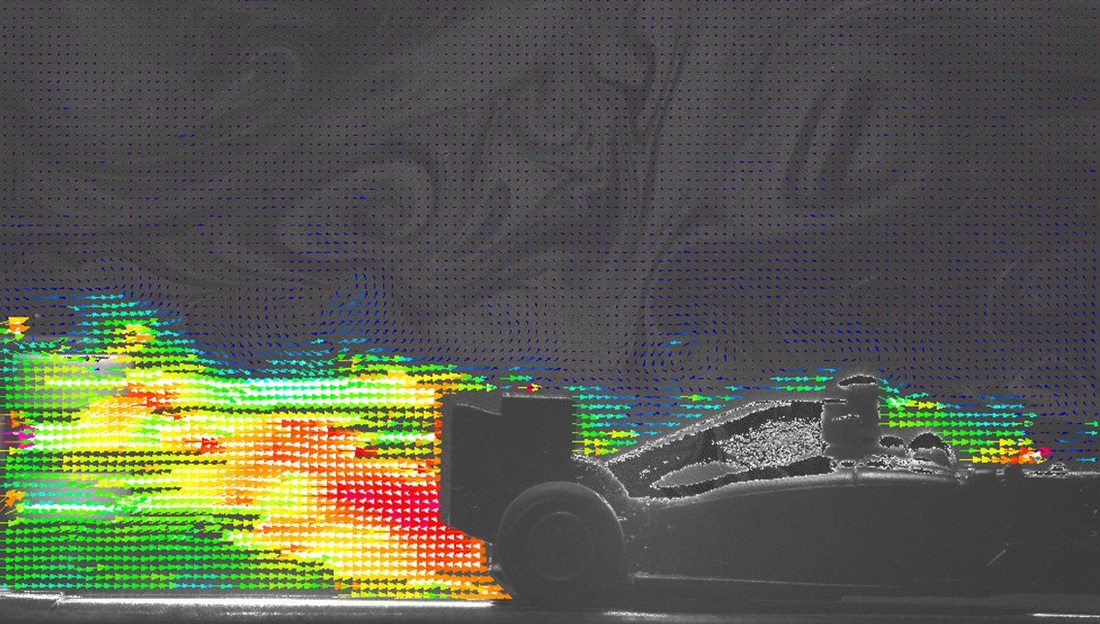
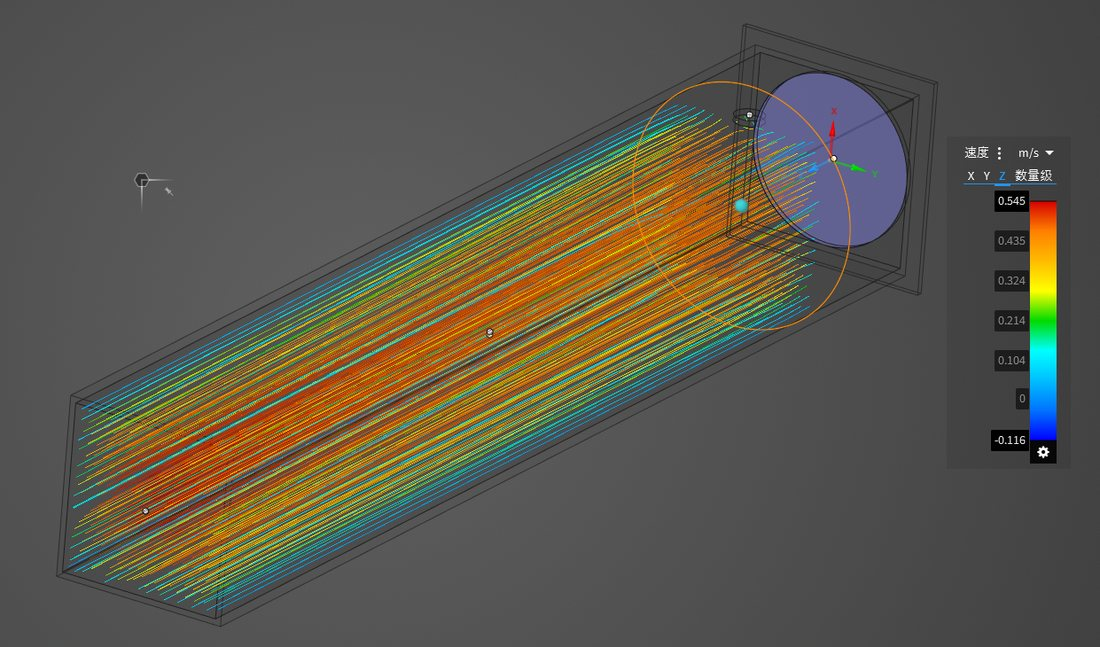
Add files via upload

diff --git a/projects/a03-waste-sorting.html b/projects/a03-waste-sorting.html
@@ -61,17 +61,6 @@
   <section class="dsec">
     <h2><span data-zh>项目图片</span><span data-en>Gallery</span></h2>
     <div class="gallery">
+      <figure><a href="img/a03-concept.jpg" target="_blank"><img src="img/a03-concept.jpg" alt="concept render"></a><figcaption><span data-zh>系统整体理想效果示意图（电磁阀喷气分拣全流程）</span><span data-en>Ideal full-system concept render (end-to-end air-jet sorting)</span></figcaption></figure>
       <figure><a href="img/a03-conveyor.jpg" target="_blank"><img src="img/a03-conveyor.jpg" alt="conveyor"></a><figcaption><span data-zh>气压式穿孔传送带 + 相机采集（初步实物装置）</span><span data-en>Perforated pneumatic conveyor + camera capture (early prototype)</span></figcaption></figure>
-      <figure><a href="img/a03-render.jpg" target="_blank"><img src="img/a03-render.jpg" alt="render"></a><figcaption><span data-zh>电磁阀喷气分拣系统 3D 渲染图</span><span data-en>3D render of the air-jet sorting system</span></figcaption></figure>
-    </div>
-    <p class="note" style="margin-top:12px"><span data-zh>点击图片可查看大图。</span><span data-en>Click an image to view full size.</span></p>
-  </section>
-
-  <div class="dfoot"><span data-zh>姚涵非 · </span><span data-en>Hanfei Yao · </span><a href="../index.html"><span data-zh>返回主页</span><span data-en>Back to home</span></a></div>
-</main>
-<script>
-const b=document.getElementById('dlangToggle'),h=document.documentElement;
-b.addEventListener('click',()=>{const en=h.getAttribute('lang')==='en';h.setAttribute('lang',en?'zh':'en');b.textContent=en?'EN':'中';});
-</script>
-</body>
-</html>
+      <figure><a href="img/a03-render.jpg" target="_blank"><img src="img/a03-render.jpg" alt="render"></a><figcaption><span data-zh>电磁阀喷气分拣系统 3D 渲染图</span><span data-en>3D 

diff --git a/projects/a05-nut-insertion.html b/projects/a05-nut-insertion.html
@@ -62,17 +62,4 @@
     <div class="gallery">
       <figure><a href="img/a05-real.jpg" target="_blank"><img src="img/a05-real.jpg" alt="prototype"></a><figcaption><span data-zh>热压螺母植入机实物样机</span><span data-en>Physical prototype of the inserter</span></figcaption></figure>
       <figure><a href="img/a05-part.jpg" target="_blank"><img src="img/a05-part.jpg" alt="3D-printed parts"></a><figcaption><span data-zh>3D 打印的红色结构零件</span><span data-en>3D-printed red structural parts</span></figcaption></figure>
-      <figure><a href="img/a05-cad.jpg" target="_blank"><img src="img/a05-cad.jpg" alt="CAD"></a><figcaption><span data-zh>整机 3D CAD（全齿条 + 锁紧 + 高度控制）</span><span data-en>Full 3D CAD (rack-and-pinion + locking + height control)</span></figcaption></figure>
-      <figure><a href="img/a05-drawing.jpg" target="_blank"><img src="img/a05-drawing.jpg" alt="drawing"></a><figcaption><span data-zh>传动与锁紧机构工程图</span><span data-en>Engineering drawing of transmission & locking</span></figcaption></figure>
-    </div>
-    <p class="note" style="margin-top:12px"><span data-zh>点击图片可查看大图。</span><span data-en>Click an image to view full size.</span></p>
-  </section>
-
-  <div class="dfoot"><span data-zh>姚涵非 · </span><span data-en>Hanfei Yao · </span><a href="../index.html"><span data-zh>返回主页</span><span data-en>Back to home</span></a></div>
-</main>
-<script>
-const b=document.getElementById('dlangToggle'),h=document.documentElement;
-b.addEventListener('click',()=>{const en=h.getAttribute('lang')==='en';h.setAttribute('lang',en?'zh':'en');b.textContent=en?'EN':'中';});
-</script>
-</body>
-</html>
+      <figure><a href="img/a05-cad.jpg" target="_blank"><img src="img/a05-cad.jpg" alt="CAD"></a><figcaption><span data-zh>整机 3D CAD（全齿条 + 锁紧 + 高度控制）</span><span data-en>Full 3D

diff --git a/projects/a04-piv.html b/projects/a04-piv.html
@@ -59,14 +59,25 @@
   </section>
 
   <section class="dsec">
+    <h2><span data-zh>实物演示视频</span><span data-en>Demo Video</span></h2>
+    <video class="pvideo" controls preload="metadata" poster="img/a04-demo-poster.jpg">
+      <source src="a04-demo.mp4" type="video/mp4">
+      <span data-zh>你的浏览器不支持视频播放，可<a href="a04-demo.mp4">点此下载查看</a>。</span><span data-en>Your browser cannot play the video; <a href="a04-demo.mp4">download it here</a>.</span>
+    </video>
+    <p class="note" style="margin-top:10px"><span data-zh>毕业设计 PIV 装置的实物演示（团队答辩录像节选，含透明亚克力流道装置）。</span><span data-en>Real-device demo of the PIV setup (excerpt from the team defense video, showing the transparent acrylic channel device).</span></p>
+  </section>
+
+  <section class="dsec">
     <h2><span data-zh>原理、装置与实拍</span><span data-en>Principle, Device & Photos</span></h2>
     <div class="gallery">
       <figure><a href="img/a04-overview.jpg" target="_blank"><img src="img/a04-overview.jpg" alt="overview"></a><figcaption><span data-zh>整机设计总览（激光 / 相机 / 流道 / 树莓派 / 触摸屏）</span><span data-en>Overall design (laser / camera / channel / Raspberry Pi / touchscreen)</span></figcaption></figure>
       <figure><a href="img/a04-principle.jpg" target="_blank"><img src="img/a04-principle.jpg" alt="principle"></a><figcaption><span data-zh>PIV 测速原理示意（片光 + 双曝光 + 互相关）</span><span data-en>PIV principle (light-sheet + double exposure + cross-correlation)</span></figcaption></figure>
+      <figure><a href="img/a04-device.jpg" target="_blank"><img src="img/a04-device.jpg" alt="real device"></a><figcaption><span data-zh>透明亚克力流道装置实物（毕设答辩）</span><span data-en>Transparent acrylic channel device (defense)</span></figcaption></figure>
+      <figure><a href="img/a04-mech.jpg" target="_blank"><img src="img/a04-mech.jpg" alt="mechanical design"></a><figcaption><span data-zh>机械系统设计：相机/激光支架 CAD 与 FEA 强度分析（本人负责）</span><span data-en>Mechanical design: camera/laser bracket CAD & FEA (my work)</span></figcaption></figure>
       <figure><a href="img/a04-laser.jpg" target="_blank"><img src="img/a04-laser.jpg" alt="laser"></a><figcaption><span data-zh>激光片光照亮流场（实拍）</span><span data-en>Laser light-sheet illuminating the flow (photo)</span></figcaption></figure>
       <figure><a href="img/a04-frame.jpg" target="_blank"><img src="img/a04-frame.jpg" alt="frame"></a><figcaption><span data-zh>装置机械框架（含流道与电机）</span><span data-en>Mechanical frame (channel and motor)</span></figcaption></figure>
       <figure><a href="img/a04-built.jpg" target="_blank"><img src="img/a04-built.jpg" alt="built device"></a><figcaption><span data-zh>搭建完成的装置实物</span><span data-en>The assembled device</span></figcaption></figure>
-      <figure><a href="img/a04-camera.jpg" target="_blank"><img src="img/a04-camera.jpg" alt="camera"></a><figcaption><span data-zh>图像采集用 CMOS 相机</span><span data-en>CMOS camera for image capture</span></figcaption></figure>
+      <figure><a href="img/a04-blower.jpg" target="_blank"><img src="img/a04-blower.jpg" alt="blower"></a><figcaption><span data-zh>驱动流道的鼓风机</span><span data-en>Blower driving the flow channel</span></figcaption></figure>
     </div>
   </section>
 
@@ -74,6 +85,7 @@
     <h2><span data-zh>测速结果成图（多介质）</span><span data-en>Velocimetry Results (multiple media)</span></h2>
     <div class="gallery">
       <figure><a href="img/a04-result.jpg" target="_blank"><img src="img/a04-result.jpg" alt="velocity field"></a><figcaption><span data-zh>互相关计算得到的速度场结果</span><span data-en>Velocity field from cross-correlation</span></figcaption></figure>
+      <figure><a href="img/a04-particles.jpg" target="_blank"><img src="img/a04-particles.jpg" alt="raw particles"></a><figcaption><span data-zh>原始粒子图像（算法输入）</span><span data-en>Raw particle image (algorithm input)</span></figcaption></figure>
       <figure><a href="img/a04-traj-water.jpg" target="_blank"><img src="img/a04-traj-water.jpg" alt="water"></a><figcaption><span data-zh>水中粒子运动序列</span><span data-en>Particle motion in water</span></figcaption></figure>
       <figure><a href="img/a04-traj-sand.jpg" target="_blank"><img src="img/a04-traj-sand.jpg" alt="sand"></a><figcaption><span data-zh>沙中粒子运动序列</span><span data-en>Particle motion in sand</span></figcaption></figure>
     </div>